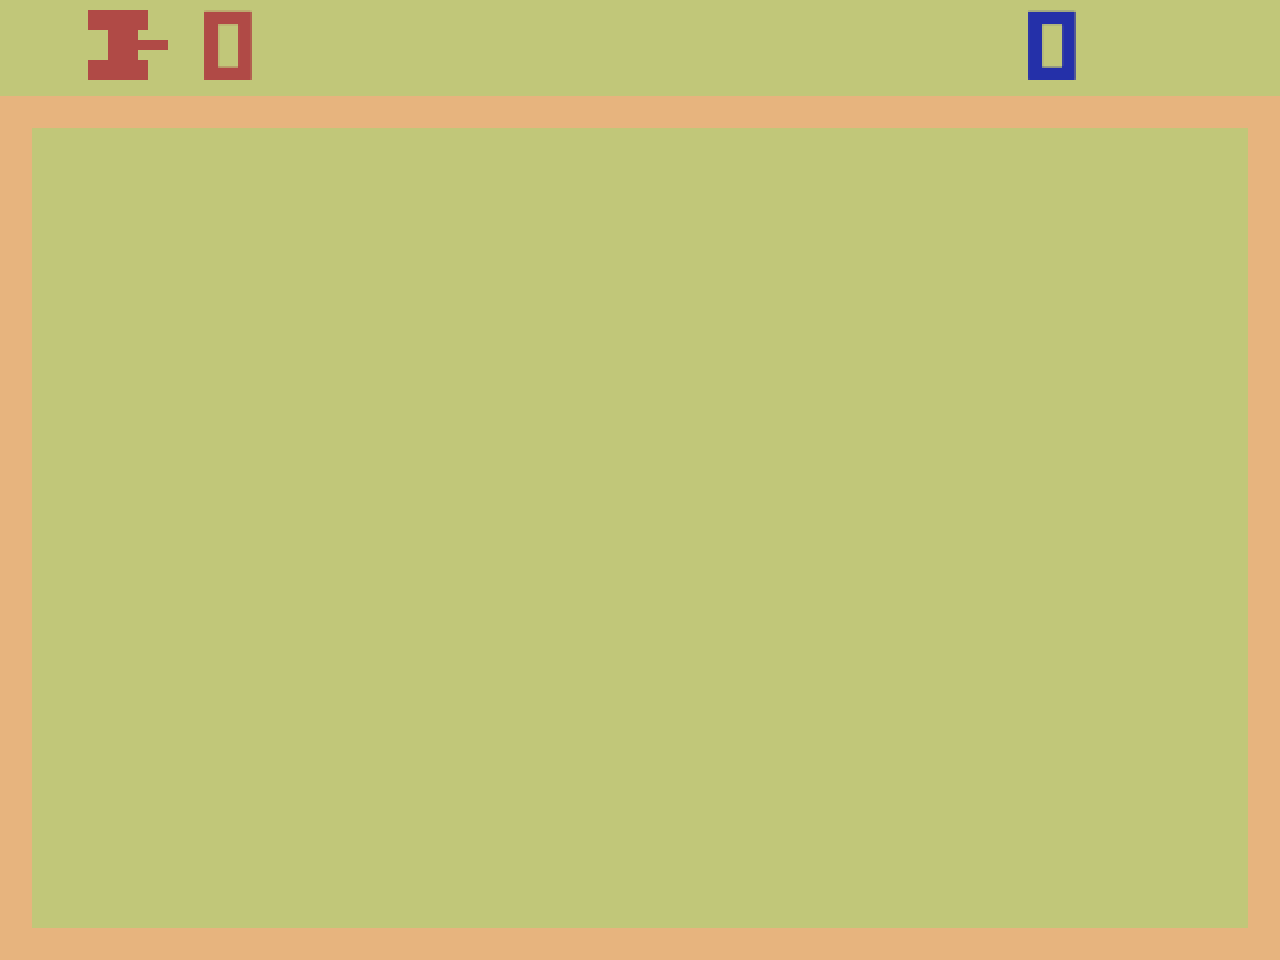
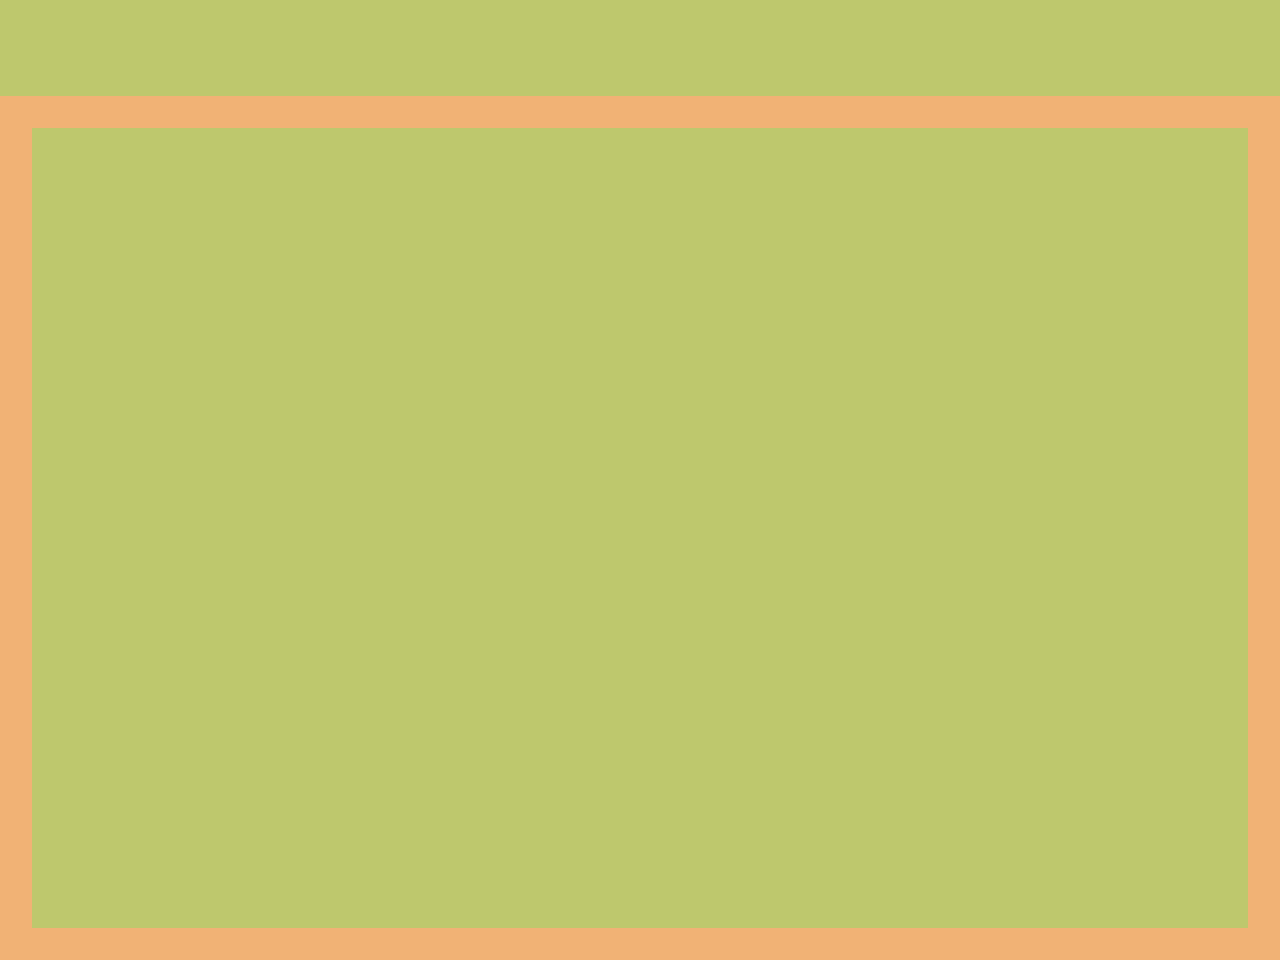
The Conversation: removed the player tank, renamed enemy tanks
? Realized that a) having the player sprite plus two enemy sprites 
breaks Atari sprite rules, and b) although there's a player tank 
everywhere else, all the player actually does in this game is listen, so 
the tank is extraneous (completely obvious when you consider I placed it 
outside the playing field). With it gone the game is much more pure and 
accurate.

? Renamed the two AI tanks to husband and wife to keep things at the 
variable name level consistent with the movie (and also with the 
instructions, which reference a "husband tank and wife tank". I like 
this kind of thing, regardless of whether anyone ever sees it.

? Also rewrote the instructions accordingly

Changed region(s): [[0.7812, 0.0, 0.8438, 0.0938], [0.1562, 0.0, 0.2188, 0.0938], [0.0625, 0.0, 0.125, 0.0938]]

diff --git a/js/TheConversation.js b/js/TheConversation.js
@@ -16,38 +16,39 @@ class TheConversation extends GameScene {
       tile.tint = 0xF1B275;
     });
 
-    this.player.x = this.game.canvas.width / 10;
-    this.player.y = 10;
+    // this.player.x = this.game.canvas.width / 10;
+    // this.player.y = 10;
+    this.player.destroy();
 
-    this.enemy1 = new AITank(this, 100, 240, `tank`, 0x272AB0);
-    this.add.existing(this.enemy1);
-    this.enemy1.x = this.game.canvas.width - this.game.canvas.width / 10;
-    this.enemy1.y = this.game.canvas.height / 2 + 24;
-    this.enemy1.setFrame(8);
-    this.enemy1.moveAngle = 180;
+    this.husband = new AITank(this, 100, 240, `tank`, 0x272AB0);
+    this.add.existing(this.husband);
+    this.husband.x = this.game.canvas.width - this.game.canvas.width / 10;
+    this.husband.y = this.game.canvas.height / 2 + 24;
+    this.husband.setFrame(8);
+    this.husband.moveAngle = 180;
 
-    this.tanks.add(this.enemy1);
-    this.shootables.add(this.enemy1);
+    this.tanks.add(this.husband);
+    this.shootables.add(this.husband);
 
-    this.enemy2 = new AITank(this, 100, 240, `tank`, 0xC04141, this.enemy1);
-    this.add.existing(this.enemy2);
-    this.enemy2.x = this.game.canvas.width / 10;
-    this.enemy2.y = this.game.canvas.height / 2 + 24;
+    this.wife = new AITank(this, 100, 240, `tank`, 0xC04141, this.husband);
+    this.add.existing(this.wife);
+    this.wife.x = this.game.canvas.width / 10;
+    this.wife.y = this.game.canvas.height / 2 + 24;
 
-    this.enemy1.enemy = this.enemy2;
+    this.husband.enemy = this.wife;
 
-    this.tanks.add(this.enemy2);
-    this.shootables.add(this.enemy2);
+    this.tanks.add(this.wife);
+    this.shootables.add(this.wife);
 
     this.walls.visible = false;
-    this.enemy1.visible = false;
-    this.enemy2.visible = false;
+    this.husband.visible = false;
+    this.wife.visible = false;
 
     this.playerScore.visible = false;
     this.enemyScore.visible = false;
 
     this.title = "THE CONVERSATION";
-    this.explanation = "Become Harry Caul (Gene Hackman) as you listen through the hotel wall to an argument between husband and wife. Hold the Up Arrow to move forwards, the Left and Right Arrows to turn as you pace beside the wall. Use your Ears to try to figure out what is happening and, when it turns deadly, who killed who.";
+    this.explanation = "Become Harry Caul (Gene Hackman) as you listen through the hotel wall to an argument between husband tank and wife tank. Use your Ears to try to figure out what is happening and, when it turns deadly, who killed who.";
     this.figureKey = 'fig-the-conversation';
     this.caption = 'Fig. H – Listening through the wall'
 
@@ -70,18 +71,22 @@ class TheConversation extends GameScene {
 
   update(time, delta) {
     if (!this.playing) return;
+    if (this.black.visible) return;
 
-    super.update(time, delta);
-    this.enemy1.update();
-    this.enemy2.update();
+    this.husband.update();
+    this.wife.update();
 
-    if (Phaser.Math.Distance.Between(this.enemy1.x, this.enemy1.y, this.enemy2.x, this.enemy2.y) < 400) {
-      let bullet1 = this.enemy1.shoot(this.shootables);
-      let bullet2 = this.enemy2.shoot(this.shootables);
+    if (Phaser.Math.Distance.Between(this.husband.x, this.husband.y, this.wife.x, this.wife.y) < 400) {
+      let bullet1 = this.husband.shoot(this.shootables);
+      let bullet2 = this.wife.shoot(this.shootables);
 
       if (bullet1) bullet1.visible = false;
       if (bullet2) bullet2.visible = false;
     }
+  }
+
+  handleInput() {
+
   }
 
   shoot() {

diff --git a/process/to-do.md b/process/to-do.md
@@ -35,6 +35,7 @@
 - ~~Add more explicit driving instructions somewhere (either main screen or per game)~~
 - ~~Move images into the atlas and compress?~~
 - ~~Do a "points pass" to see where points can be used expressively and when they should not even be indicated~~
+- ~~__GENIUS__ In case I don't check below: REMOVE THE PLAYER TANK in The Conversation, it does nothing, and it breaks the sprite limit~~
 
 - Tweak audio files to make them at least a bit easier to hear
 - Endings
